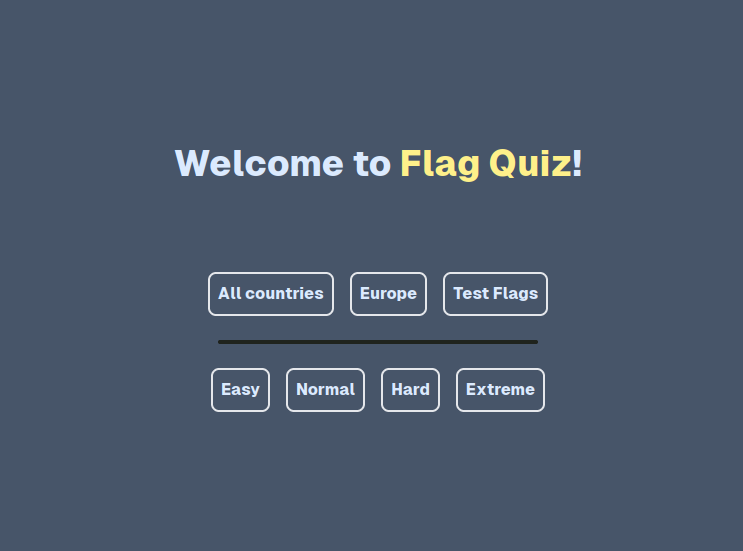
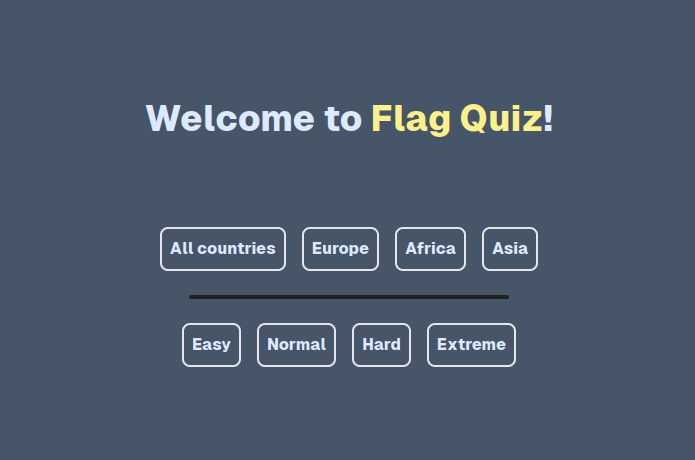
More country groups, updated meta

diff --git a/src/countries.ts b/src/countries.ts
@@ -317,15 +317,118 @@ const europeanCountries: FlagList = {
     "VA": "Holy See (Vatican City State)"
 };
 
-const testFlags: FlagList = {
-    "DE": "Germany",
-    "DK": "Denmark",
-    "EE": "Estonia",
-    "ES": "Spain",
-}
+const africanCountries: FlagList = {
+    "AO": "Angola",
+    "BI": "Burundi",
+    "BJ": "Benin",
+    "BW": "Botswana",
+    "BF": "Burkina Faso",
+    "CM": "Cameroon",
+    "CV": "Cape Verde",
+    "CF": "Central African Republic",
+    "TD": "Chad",
+    "KM": "Comoros",
+    "CG": "Republic of the Congo",
+    "CD": "Congo, the Democratic Republic of the",
+    "DJ": "Djibouti",
+    "EG": "Egypt",
+    "GQ": "Equatorial Guinea",
+    "ER": "Eritrea",
+    "SZ": "Swaziland",
+    "ET": "Ethiopia",
+    "GA": "Gabon",
+    "GM": "Gambia",
+    "GH": "Ghana",
+    "GN": "Guinea",
+    "GW": "Guinea-Bissau",
+    "KE": "Kenya",
+    "LS": "Lesotho",
+    "LR": "Liberia",
+    "LY": "Libya",
+    "MG": "Madagascar",
+    "MW": "Malawi",
+    "ML": "Mali",
+    "MR": "Mauritania",
+    "MU": "Mauritius",
+    "MA": "Morocco",
+    "MZ": "Mozambique",
+    "NA": "Namibia",
+    "NE": "Niger",
+    "NG": "Nigeria",
+    "RE": "Réunion",
+    "RW": "Rwanda",
+    "ST": "Sao Tome and Principe",
+    "SN": "Senegal",
+    "SC": "Seychelles",
+    "SL": "Sierra Leone",
+    "SO": "Somalia",
+    "ZA": "South Africa",
+    "SS": "South Sudan",
+    "EH": "Western Sahara",
+    "SD": "Sudan",
+    "TG": "Togo",
+    "TN": "Tunisia",
+    "UG": "Uganda",
+    "YT": "Mayotte",
+    "ZM": "Zambia",
+    "ZW": "Zimbabwe"
+};
+
+const asianCountries: FlagList = {
+    "AF": "Afghanistan",
+    "AM": "Armenia",
+    "AZ": "Azerbaijan",
+    "BH": "Bahrain",
+    "BD": "Bangladesh",
+    "BT": "Bhutan",
+    "BN": "Brunei Darussalam",
+    "KH": "Cambodia",
+    "CN": "China (People's Republic of China)",
+    "CY": "Cyprus",
+    "GE": "Georgia",
+    "IN": "India",
+    "ID": "Indonesia",
+    "IR": "Iran, Islamic Republic of",
+    "IQ": "Iraq",
+    "IL": "Israel",
+    "JP": "Japan",
+    "JO": "Jordan",
+    "KZ": "Kazakhstan",
+    "KW": "Kuwait",
+    "KG": "Kyrgyzstan",
+    "LA": "Laos (Lao People's Democratic Republic)",
+    "LB": "Lebanon",
+    "MY": "Malaysia",
+    "MV": "Maldives",
+    "MN": "Mongolia",
+    "MM": "Myanmar",
+    "NP": "Nepal",
+    "KP": "Korea, Democratic People's Republic of",
+    "KR": "Korea, Republic of",
+    "OM": "Oman",
+    "PK": "Pakistan",
+    "PS": "Palestine",
+    "PH": "Philippines",
+    "QA": "Qatar",
+    "SA": "Saudi Arabia",
+    "SG": "Singapore",
+    "LK": "Sri Lanka",
+    "SY": "Syrian Arab Republic",
+    "TW": "Taiwan (Republic of China)",
+    "TJ": "Tajikistan",
+    "TH": "Thailand",
+    "TL": "Timor-Leste",
+    "TR": "Turkey",
+    "TM": "Turkmenistan",
+    "AE": "United Arab Emirates",
+    "UZ": "Uzbekistan",
+    "VN": "Vietnam",
+    "YE": "Yemen",
+};
 
 export const gameTypes: Record<string, FlagList> = {
     'All countries': countries,
     'Europe': europeanCountries,
-    'Test Flags': testFlags
+    'Africa': africanCountries,
+    'Asia': asianCountries,
 }
